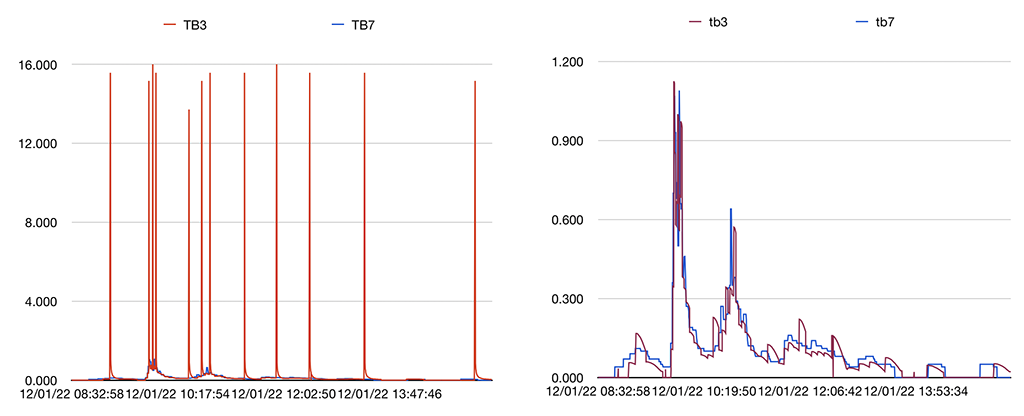
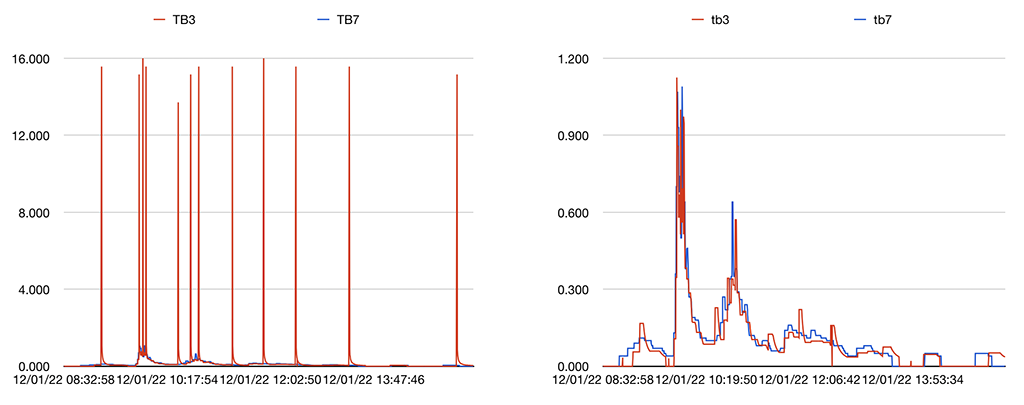
Release 0.30.

diff --git a/bin/user/tests/test_rainrate.py b/bin/user/tests/test_rainrate.py
@@ -110,7 +110,7 @@ class RainRateTests(unittest.TestCase):
             user.rainrate.RainRate.add_packet(pkt, rain_entries)
             user.rainrate.RainRate.compute_rain_rate(pkt, rain_entries)
         # Previous tip was 114s ago.
-        self.assertAlmostEqual(pkt['rainRate'], 0.31578947368)
+        self.assertAlmostEqual(pkt['rainRate'], 0.32142857142857145)
 
         # Another tip 2s later.
         ts += 2
@@ -147,7 +147,7 @@ class RainRateTests(unittest.TestCase):
             user.rainrate.RainRate.add_packet(pkt, rain_entries)
         user.rainrate.RainRate.compute_rain_rate(pkt, rain_entries)
         # Prvious tip was 297s ago.
-        self.assertAlmostEqual(pkt['rainRate'], 0.12121212121)
+        self.assertAlmostEqual(pkt['rainRate'], 0.12162162162162163)
 
         # No rain for 5:00
         for _ in range(150):
@@ -156,7 +156,7 @@ class RainRateTests(unittest.TestCase):
             user.rainrate.RainRate.add_packet(pkt, rain_entries)
         # Prvious tip was 597s ago.
         user.rainrate.RainRate.compute_rain_rate(pkt, rain_entries)
-        self.assertAlmostEqual(pkt['rainRate'], 0.06030150753)
+        self.assertAlmostEqual(pkt['rainRate'], 0.06040268456375839)
 
         # No rain for 5:00
         for _ in range(150):
@@ -165,7 +165,7 @@ class RainRateTests(unittest.TestCase):
             user.rainrate.RainRate.add_packet(pkt, rain_entries)
         # Prvious tip was 897s ago.
         user.rainrate.RainRate.compute_rain_rate(pkt, rain_entries)
-        self.assertAlmostEqual(pkt['rainRate'], 0.04013377926)
+        self.assertAlmostEqual(pkt['rainRate'], 0.04017857142857143)
 
     def test_compute_rain_rate_50_percent(self):
         rain_entries = []
@@ -182,12 +182,12 @@ class RainRateTests(unittest.TestCase):
             user.rainrate.RainRate.add_packet(pkt, rain_entries)
             ts += 2
 
-        # 2000 seconds of packets, but we only keep 1800s of entries.
-        # Rain every 4s is 450 entries.
+        # 2000 seconds of packets.
+        # Rain every 4s.
         self.assertEqual(len(rain_entries), 450)
         user.rainrate.RainRate.compute_rain_rate(pkt, rain_entries)
         # Prevous tip was 6s ago.
-        self.assertEqual(pkt['rainRate'], 6.0)
+        self.assertEqual(pkt['rainRate'], 9.0)
 
     def test_compute_rain_rate_one_in_15(self):
         rain_entries = []
@@ -206,7 +206,7 @@ class RainRateTests(unittest.TestCase):
         self.assertEqual(len(rain_entries), 60)
         user.rainrate.RainRate.compute_rain_rate(pkt, rain_entries)
         # Prevous packet 32s ago.
-        self.assertAlmostEqual(pkt['rainRate'], 0.75)
+        self.assertAlmostEqual(pkt['rainRate'], 1.2)
 
     def test_compute_rain_rate_one_in_45(self):
         rain_entries = []
@@ -226,7 +226,7 @@ class RainRateTests(unittest.TestCase):
         # Previous tip was 108s ago.
         user.rainrate.RainRate.compute_rain_rate(pkt, rain_entries)
         # Prevous tip was 90s ago.
-        self.assertAlmostEqual(pkt['rainRate'], 0.33333333333)
+        self.assertAlmostEqual(pkt['rainRate'], 0.4)
 
     def test_2022_11_rain_event(self):
         """

diff --git a/bin/user/rainrate.py b/bin/user/rainrate.py
@@ -29,7 +29,6 @@ tipping bucket rain gauge as a reference (for rain rate).
 """
 
 import logging
-import math
 import sys
 import time
 
@@ -49,7 +48,7 @@ from weewx.engine import StdService
 # get a logger object
 log = logging.getLogger(__name__)
 
-RAINRATE_VERSION = '0.20'
+RAINRATE_VERSION = '0.30'
 
 if sys.version_info[0] < 3 or (sys.version_info[0] == 3 and sys.version_info[1] < 7):
     raise weewx.UnsupportedFeature(
@@ -236,16 +235,12 @@ class RainRate(StdService):
         if len(rain_entries) < 2:
             pkt['rainRate'] = 0.0
         else:
-            # Immediately after a bucket tip, the rainRate is entirely composed of:
-            # 3600 * last_tip_amount / (time_of_last_tip - time_of_next_to_last_tip)
+            # Rain rate between the last two drops.
             rainRate1 = 3600 * rain_entries[0].amount / (rain_entries[0].timestamp - rain_entries[1].timestamp)
-            rainRate2 = 3600 * rain_entries[0].amount / (pkt['dateTime'] - rain_entries[1].timestamp)
-            # As time passes, rainRate2 becomes more prominent (y=x^sqrt(2))
-            secs_since_last_tip = pkt['dateTime'] - rain_entries[0].timestamp
-            if secs_since_last_tip >= 900.0:
-                factor1, factor2 = 0.0, 1.0
-            else:
-                factor2 = (secs_since_last_tip / 900.0) ** math.sqrt(2)
-                factor1 = 1 - factor2
-            pkt['rainRate'] = rainRate1 * factor1 + rainRate2 * factor2
+            # Rain rate imagining that there was a tip in the current packet (as such, between now and the actual last tip).
+            rainRate2 = 10000.0 # Pick a silly large number as we take the min below.
+            if pkt['dateTime'] != rain_entries[0].timestamp:
+                rainRate2 = 3600 * 0.01 / (pkt['dateTime'] - rain_entries[0].timestamp)
+            # Pick the lower of the two rates.
+            pkt['rainRate'] = min(rainRate1, rainRate2)
         log.debug('new_loop(%d): Added/updated pkt[rainRate] of %f' % (pkt['dateTime'], pkt['rainRate']))

diff --git a/install.py b/install.py
@@ -31,7 +31,7 @@ def loader():
 class RainRateInstaller(ExtensionInstaller):
     def __init__(self):
         super(RainRateInstaller, self).__init__(
-            version = "0.20",
+            version = "0.30",
             name = 'rainrate',
             description = 'Inserts/updates rainRate observations in loop packets.',
             author = "John A Kline",

diff --git a/README.md b/README.md
@@ -60,7 +60,7 @@ The key feature of this extension is that, when multiple tips are encountered in
 
 The exceptional case is where a multi-tip reading is encountered on the first tip of a storm (where a storm is defined as the time of the first tip through to a period of 30 minutes with no tips).  For this case, 0.01 of rain is recorded at the current time and remainder is recorded 15m earlier.
 
-The rain rate is determined by combining the following two calculations:
+The rain rate is determined by choosing the *lower* of the following two calculations:
 
 1. The rate between the last two tips:
 `3600.0 * rain_amount_of_most_recent_tip / (time_of_last_tip - time_of_previous_tip)`
@@ -68,24 +68,18 @@ The `rain_amount_of_most_recent_tip` will be 0.01 (since
 multi-tips are split up).  The `time_of_previous_tip` is not the last rain
 event; rather, it's the one before that.
 
-1. The rate from the current time to the time of the previous tip.
-`3600.0 * rain_amount_of_most_recent_tip / (now - time_of_previous_rain_event)`
-The `rain_amount_of_most_recent_tip` will be 0.01 (since
-multi-tips are split up).  The `time_of_previous_tip` is not the last rain
-event; rather, it's the one before that.
-
-The first rate (the rate between two tips) plays a much greater influence on the rate
-when a tip has just occurred.  Over time, the second rate becomes the dominant influence
-over the rate.  The influence of the second rate follows the slope of y=x^sqrt(2).
+1. The rate between the last tip and now (as if a new tip occurred now).
+`3600.0 * 0.01 / (now - time_of_most_recent_tip)`  Note: if the curent loop packet
+contains a tip, this second rate is not calculated.
 
 # Installation Instructions
 
-1. Download the lastest release, weewx-rainrate-0.20.zip, from the
+1. Download the lastest release, weewx-rainrate-0.30.zip, from the
    [GitHub Repository](https://github.com/chaunceygardiner/weewx-rainrate).
 
 1. Run the following command.
 
-   `sudo /home/weewx/bin/wee_extension --install weewx-rainrate-0.20.zip`
+   `sudo /home/weewx/bin/wee_extension --install weewx-rainrate-0.30.zip`
 
    Note: this command assumes weewx is installed in /home/weewx.  If it's installed
    elsewhere, adjust the path of wee_extension accordingly.
